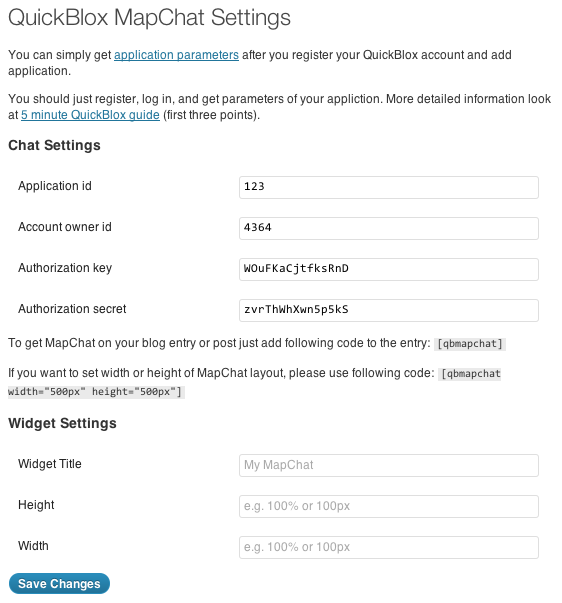
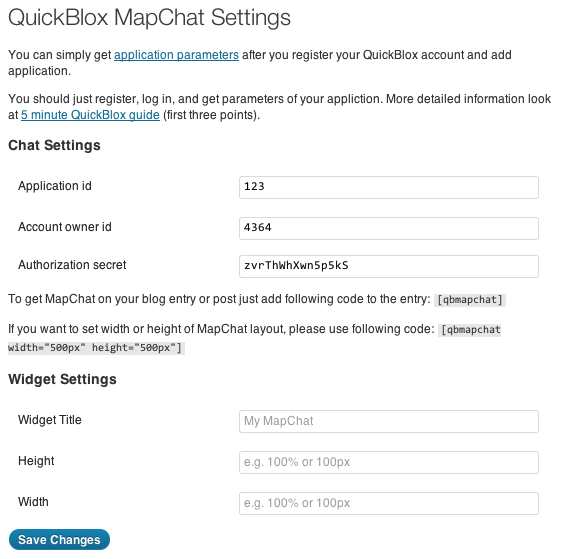
update quickblox-mapchat with version 0.6
git-svn-id: https://plugins.svn.wordpress.org/quickblox-mapchat/trunk@656336 b8457f37-d9ea-0310-8a92-e5e31aec5664

diff --git a/qbmapchat.php b/qbmapchat.php
@@ -1,9 +1,9 @@
 <?php
 /*
 Plugin Name: QuickBlox MapChat
-Plugin URI: http://quickblox.com/apps/mapchat
+Plugin URI: http://quickblox.com/applications/mapchat
 Description: QuickBlox MapChat is simple plugin for Wordpress, that fast adds MapChat (chat integrated with map) to your website and powers it with great functions and features of communication.
-Version: 0.5
+Version: 0.6
 Author: QuickBlox Team
 Author URI: http://quickblox.com
 License: License
@@ -20,16 +20,16 @@ register_activation_hook( __FILE__, 'init_defaults' );
 
 function init_defaults() {
 	$defaults['appId'] = '208';
-	$defaults['ownerId'] = '4434';
+	//$defaults['ownerId'] = '4434';
 	$defaults['authKey'] = 'DLuug-5VNjNTGsV';
 	$defaults['authSecret'] = 'F7mWg3f2X2WM-hk';
 	
 	if (get_option('qb_app_id') == '') {
 		update_option('qb_app_id', $defaults['appId']);	
 	}
-	if (get_option('qb_owner_id') == '') {
+	/*if (get_option('qb_owner_id') == '') {
 		update_option('qb_owner_id', $defaults['ownerId']);	
-	}
+	}*/
 	if (get_option('qb_auth_key') == '') {
 		update_option('qb_auth_key', $defaults['authKey']);	
 	}
@@ -48,7 +48,7 @@ function qb_create_menu() {
 
 function register_mysettings() {
 	register_setting('qb-settings-group', 'qb_app_id');
-	register_setting('qb-settings-group', 'qb_owner_id');
+	//register_setting('qb-settings-group', 'qb_owner_id');
 	register_setting('qb-settings-group', 'qb_auth_key');
 	register_setting('qb-settings-group', 'qb_auth_secret');
 	register_setting('qb-settings-group', 'qb_widget_title');
@@ -68,11 +68,11 @@ function getRealIpAddr() {
 }	
 
 function qb_settings_form() {
-	$errorMessage = '<div id="message" class="error"><p><strong>There is no QuickBlox application with specified parameters. Check parameters (application id, owner id, auth key and auth secret), please.</strong></p></div>';
+	$errorMessage = '<div id="message" class="error"><p><strong>There is no QuickBlox application with specified parameters. Check parameters (application id, auth key and auth secret), please.</strong></p></div>';
 	$emptyFieldsMessage = '<div id="message" class="updated"><p><strong>Just fill fields below to get MapChat widget in your website pages.</strong></p></div>';
 
 	$appId =  get_option('qb_app_id');
-	$ownerId =  get_option('qb_owner_id');
+	//$ownerId =  get_option('qb_owner_id');
 	$authKey =  get_option('qb_auth_key');
 	$authSecret =  get_option('qb_auth_secret'); 
 	
@@ -89,9 +89,9 @@ function qb_settings_form() {
 		
 		$website_ip = getRealIpAddr();
 		
-		$params = "app_domain=$website_domain&app_id=$appId&owner_id=$ownerId&auth_key=$authKey&auth_secret=$authSecret&param_response=1&ip=$website_ip";
+		$params = "app_domain=$website_domain&app_id=$appId&auth_key=$authKey&auth_secret=$authSecret&param_response=1&ip=$website_ip";
 		
-		$resKey = POSTRequest('http://quickblox.com/apps/mapchat/code.php', $params, true);
+		$resKey = POSTRequest('http://quickblox.com/applications/mapchat/code.php', $params, true);
 
 		if (strlen($resKey) == 0) {
 			$resKey = '0';
@@ -110,7 +110,7 @@ function qb_settings_form() {
 	
 	$optKey = get_option('qb_key');
 
-	if (!$appId && !$ownerId && !$authKey && !$authSecret) {
+	if (!$appId && /*!$ownerId &&*/ !$authKey && !$authSecret) {
 		echo $emptyFieldsMessage;
 	} else 
 		if ($optKey == '0') {
@@ -126,9 +126,9 @@ function qb_settings_form() {
 		<ol>
 			<li>Register your QuickBlox account;</li>
 			<li>Create an application;</li>
-			<li>Copy&Paste <a href="https://img.skitch.com/20120123-8iqh4qh3ftqjamu1mhfjhnrcx6.png">application parameters</a>.</li>
+			<li>Copy&Paste <a href="http://i.imgur.com/PXfiX97.png">application parameters</a>.</li>
 		</ol> 
-		<p>Any difficulties &mdash; check out the <a href="http://wiki.quickblox.com/5_Minute_Guide">5 minute guide</a> or submit your issue to our <a href="http://community.quickblox.com/quickblox/products/quickblox_wordpress_widget_mapchat">support community</a>.</p>		
+		<p>Any difficulties &mdash; check out the <a href="http://quickblox.com/developers/5_Minute_Guide">5 minute guide</a> or submit your issue to our <a href="http://community.quickblox.com/quickblox/products/quickblox_wordpress_widget_mapchat">support community</a>.</p>		
 		
 	    <h3 class="title">Chat Settings</h3>
 	    <p><strong>Attention</strong>: when you <em>first run</em> the plugin, the default settings are for the demo account. To setup your own MapChat, please register for your own QuickBlox account and put your application settings in the fields below.</p>
@@ -139,11 +139,11 @@ function qb_settings_form() {
 				<th scope="row"><label for="qb_app_id">Application id</label></th>
 				<td><input name="qb_app_id" type="text" id="qb_app_id" class="regular-text code" placeholder="e.g. 123" value="<?php echo get_option('qb_app_id') ?>"></td>
 				</tr>
-				<tr valign="top">
+				<!--<tr valign="top">
 				<th scope="row"><label for="qb_owner_id">Account owner id</label></th>
-				<td><input name="qb_owner_id" type="text" id="qb_owner_id" class="regular-text code" placeholder="e.g. 456" value="<?php echo get_option('qb_owner_id') ?>">
+				<td><input name="qb_owner_id" type="text" id="qb_owner_id" class="regular-text code" placeholder="e.g. 456" value="<?php //echo get_option('qb_owner_id') ?>">
 				<span class="description"></span></td>
-				</tr>
+				</tr>-->
 				<tr valign="top">
 				<th scope="row"><label for="qb_auth_key">Authorization key</label></th>
 				<td><input name="qb_auth_key" type="text" id="qb_auth_key" class="regular-text code" placeholder="e.g. WOuFKaCjtfksRnF" value="<?php echo get_option('qb_auth_key') ?>"></td>
@@ -205,7 +205,7 @@ function get_mapchat_code($h, $w) {
 		$style = " style='width:$w; height:$h;'";
 	}
 	
-	return "<div id='qb-mapchat'$style><div id='qb-powered-by-quickblox' style='font:11px/18px Arial, Helvetica, sans-serif !important; height:18px !important; position:relative !important; margin-bottom:-18px !important; padding-right:5px !important; text-align:right !important; margin-left:130px !important;'>Powered by <a href='http://quickblox.com' style='color:#3B5998 !important; text-decoration:none !important;'>QuickBlox</a></div><iframe src='http://quickblox.com/apps/mapchat/app.php?key=$key' frameborder=0 height=100% width=100%></iframe></div>";
+	return "<div id='qb-mapchat'$style><div id='qb-powered-by-quickblox' style='font:11px/18px Arial, Helvetica, sans-serif !important; height:18px !important; position:relative !important; margin-bottom:-18px !important; padding-right:5px !important; text-align:right !important; margin-left:130px !important;'>Powered by <a href='http://quickblox.com' style='color:#3B5998 !important; text-decoration:none !important;'>QuickBlox</a></div><iframe src='http://quickblox.com/applications/mapchat/app.php?key=$key' frameborder=0 height=100% width=100%></iframe></div>";
 }
 
 function get_widget_code() {
